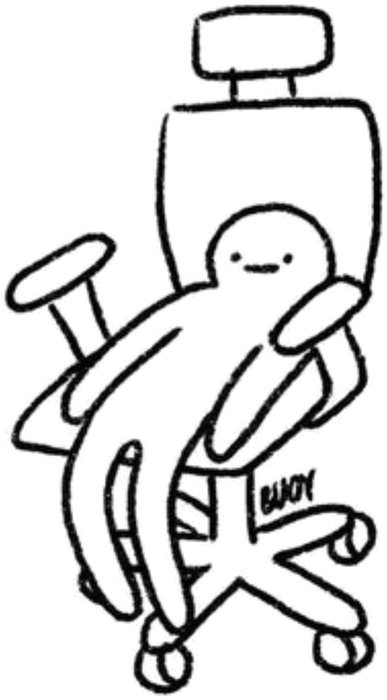
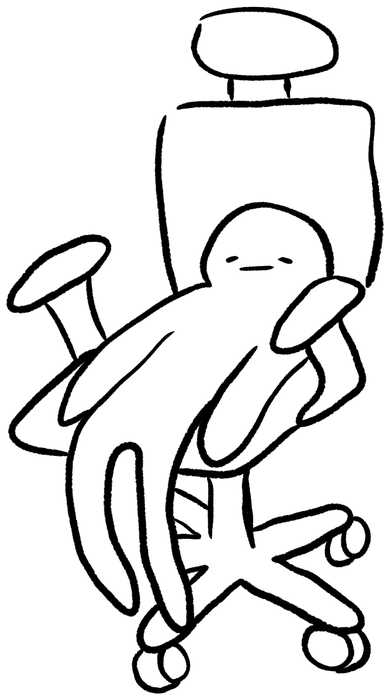
Nouvelle icône et animation de chargement
Bonhomme affalé en icône, favicon et logo complet. GIF du bonhomme qui glisse
de sa chaise, en écran de démarrage et pendant les conversions et exports.

Claude-Session: https://claude.ai/code/session_01EQP4cC9Yj8KNhPbifA1HGu

Changed region(s): [[0.0, 0.0, 0.9922, 1.0]]

diff --git a/js/app.js b/js/app.js
@@ -3,6 +3,7 @@ import {
   esc, $, $$, modal, form, toast, confirmBox, confirmTyped, pickFiles, download, normalize, studentName,
   computeResult, resultText, newGrid, fmtNum, parseNum, fmtDate, DEFAULT_LEVELS,
   KINDS, kindLabel, imageToDataUrl, dateOf, shortDate,
+  busy,
 } from './util.js';
 import { mountEditor } from './editor.js';
 import { buildCorrectedPdf, correctedFileName } from './pdfexport.js';
@@ -54,12 +55,27 @@ async function router() {
         view.innerHTML = `<div class="page-wrap"><p class="error">Erreur : ${esc(e.message)}</p><a class="btn" href="#/">Retour à l'accueil</a></div>`;
       }
       window.scrollTo(0, 0);
+      hideSplash();
       return;
     }
   }
   location.hash = '#/';
 }
 window.addEventListener('hashchange', router);
+
+// Écran de démarrage : on le garde au moins un tour d'animation (~1,6 s) puis il s'efface.
+const splashStart = performance.now();
+let splashGone = false;
+function hideSplash() {
+  if (splashGone) return;
+  splashGone = true;
+  const el = document.getElementById('splash');
+  if (!el) return;
+  setTimeout(() => {
+    el.classList.add('hide');
+    setTimeout(() => el.remove(), 450);
+  }, Math.max(0, 1600 - (performance.now() - splashStart)));
+}
 const go = h => (location.hash = h);
 
 function crumbs(items) {
@@ -578,7 +594,10 @@ async function studentView(id, semParam) {
     }
   </div>`;
   $('#edit').onclick = () => editStudent(s, s.classId);
-  $('#pdf').onclick = () => studentRecapPdf(s, semId, semName).catch(e => toast(e.message, 'error'));
+  $('#pdf').onclick = () => {
+    const b = busy('Création du récap PDF…');
+    studentRecapPdf(s, semId, semName).catch(e => toast(e.message, 'error')).finally(b.done);
+  };
 }
 
 function statusLabel(c, a) {
@@ -774,20 +793,17 @@ async function attachPdf(copy, files, append = false) {
     const err = checkSupported(f);
     if (err) throw new Error(err);
   }
-  const prog = document.createElement('div');
-  prog.className = 'toast show';
-  prog.textContent = 'Préparation du document…';
-  document.body.appendChild(prog);
+  const b = busy('Préparation du document…');
   try {
     const keep = append && copy.pdf instanceof Blob;
-    copy.pdf = await filesToPdfBlob(files, keep ? copy.pdf : null, m => (prog.textContent = m));
+    copy.pdf = await filesToPdfBlob(files, keep ? copy.pdf : null, b.set);
     const names = files.map(f => f.name);
     copy.fileName = keep && copy.fileName ? [copy.fileName, ...names].join(' + ') : names.join(' + ');
     if (!keep) copy.annotations = {};
     copy.sentAt = null;
     await db.put('copies', copy);
   } finally {
-    prog.remove();
+    b.done();
   }
 }
 
@@ -884,8 +900,10 @@ async function bulkImport(a, students, copies) {
 async function downloadAll(a, cls, students, copies) {
   const settings = await db.getSettings();
   const list = students.map(s => ({ s, c: copies.find(c => c.studentId === s.id) })).filter(x => x.c && x.c.status === 'done');
-  toast(`Préparation de ${list.length} PDF…`);
+  const b = busy(`Préparation de ${list.length} PDF…`);
+  let n = 0;
   for (const { s, c } of list) {
+    b.set(`PDF ${++n} / ${list.length} : ${studentName(s)}`);
     try {
       const bytes = await buildCorrectedPdf({ copy: c, student: s, assignment: a, cls, settings });
       download(new Blob([bytes], { type: 'application/pdf' }), correctedFileName(s, a));
@@ -894,6 +912,7 @@ async function downloadAll(a, cls, students, copies) {
       toast(`${studentName(s)} : ${e.message}`, 'error');
     }
   }
+  b.done();
 }
 
 // ---------------- Envoi des corrections par Gmail ----------------
@@ -1154,19 +1173,16 @@ async function gridView(kind, id) {
       read();
       const files = await pickFiles({ accept: capture ? 'image/*' : 'application/pdf,image/*', capture });
       if (!files.length) return;
-      const prog = document.createElement('div');
-      prog.className = 'toast show';
-      prog.textContent = 'Lecture de la grille…';
-      document.body.appendChild(prog);
+      const prog = busy('Lecture de la grille…');
       let res;
       try {
-        res = await readGridFile(files[0], m => (prog.textContent = m));
+        res = await readGridFile(files[0], prog.set);
       } catch (e) {
         console.error(e);
-        prog.remove();
+        prog.done();
         return toast('Lecture impossible : ' + e.message, 'error');
       }
-      prog.remove();
+      prog.done();
       if (!res.criteria.length) return toast('Aucun critère reconnu. Essayez une photo plus nette et bien droite, ou saisissez la grille à la main.', 'error');
       let lines = null,
         mode = res.mode;

diff --git a/css/style.css b/css/style.css
@@ -378,3 +378,14 @@ section.subject { margin: 18px 0; }
 .custom-item { display: inline-flex; align-items: center; gap: 2px; padding: 2px 2px 2px 8px; border: 1px solid var(--line); border-radius: 10px; }
 .custom-item .swatch { margin: 0; }
 .stamp-chip { font-weight: 700; }
+
+/* ---------- Écran de démarrage et attente ---------- */
+#splash { position: fixed; inset: 0; z-index: 1000; background: var(--beige); display: flex; flex-direction: column; align-items: center; justify-content: center; gap: 8px; transition: opacity .4s; }
+#splash img { width: min(46vw, 230px); height: auto; }
+#splash .splash-name { font-family: Montserrat, sans-serif; font-weight: 800; font-size: 28px; color: var(--ink); letter-spacing: .02em; }
+#splash.hide { opacity: 0; pointer-events: none; }
+.busy-wrap { position: fixed; inset: 0; z-index: 900; background: rgba(20, 20, 20, .35); display: flex; align-items: center; justify-content: center; opacity: 0; transition: opacity .2s; }
+.busy-wrap.show { opacity: 1; }
+.busy { background: var(--beige); border-radius: 18px; padding: 18px 26px 16px; text-align: center; box-shadow: 0 10px 40px rgba(0,0,0,.25); max-width: 80vw; }
+.busy img { width: 130px; height: auto; display: block; margin: 0 auto 6px; }
+.busy p { margin: 0; font-weight: 600; color: var(--ink); }

diff --git a/js/util.js b/js/util.js
@@ -36,6 +36,22 @@ export function toast(msg, type = '') {
   }, type === 'error' ? 5000 : 2600);
 }
 
+// ---------- Écran d'attente (bonhomme animé) ----------
+// const b = busy('Conversion…'); b.set('Page 2…'); b.done();
+export function busy(msg = 'Un instant…') {
+  const w = document.createElement('div');
+  w.className = 'busy-wrap';
+  w.innerHTML = `<div class="busy"><img src="assets/chargement.gif" alt=""><p></p></div>`;
+  const p = w.querySelector('p');
+  p.textContent = msg;
+  document.body.appendChild(w);
+  requestAnimationFrame(() => w.classList.add('show'));
+  return {
+    set: m => (p.textContent = m),
+    done: () => w.remove(),
+  };
+}
+
 // ---------- Fenêtre modale ----------
 // actions: [{label, value, cls}] ; renvoie la valeur du bouton cliqué (ou null si fermé).
 // onOpen(root, close) permet de brancher des événements ; validate(value, root) peut empêcher la fermeture.

diff --git a/sw.js b/sw.js
@@ -1,11 +1,12 @@
 // Service worker : l'appli fonctionne même sans connexion (sauf dictée et envoi des mails).
-const CACHE = 'izinote-v4';
+const CACHE = 'izinote-v5';
 const ASSETS = [
   './', 'index.html', 'css/style.css', 'manifest.webmanifest',
   'js/app.js', 'js/db.js', 'js/util.js', 'js/editor.js', 'js/pdfexport.js', 'js/gmail.js', 'js/reports.js', 'js/gridimport.js', 'js/convert.js', 'js/stamps.js',
   'lib/pdf.min.js', 'lib/pdf.worker.min.js', 'lib/pdf-lib.min.js', 'lib/xlsx.full.min.js', 'lib/word/jszip.min.js', 'lib/word/docx-preview.min.js', 'lib/word/html2canvas.min.js',
   'icons/icon-192.png', 'icons/icon-512.png', 'icons/favicon-64.png',
   'assets/logo-simplifie.png', 'assets/logo-complet.png', 'assets/icone.png',
+  'assets/chargement.gif',
 ];
 self.addEventListener('install', e => {
   e.waitUntil(caches.open(CACHE).then(c => c.addAll(ASSETS)).then(() => self.skipWaiting()));

diff --git a/index.html b/index.html
@@ -15,6 +15,7 @@
   <link rel="stylesheet" href="css/style.css">
 </head>
 <body>
+  <div id="splash" aria-hidden="true"><img src="assets/chargement.gif" alt=""><div class="splash-name">IziNote</div></div>
   <header class="topbar">
     <a class="brand" href="#/" aria-label="IziNote, accueil"><img src="assets/logo-simplifie.png" alt="IziNote"></a>
     <nav class="nav">
